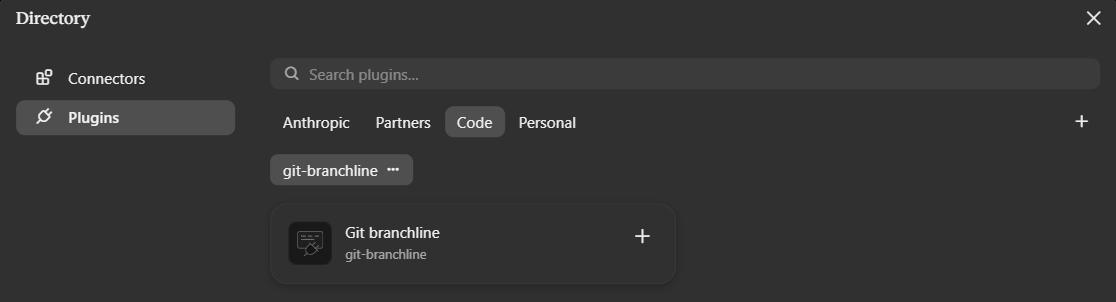
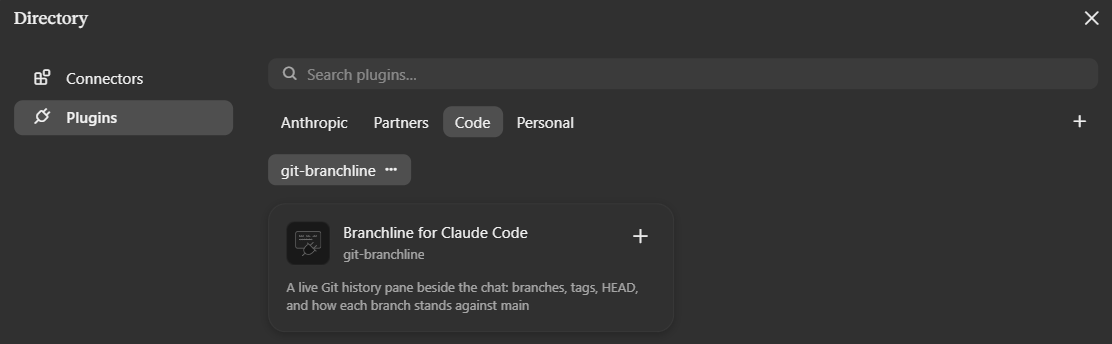
Show the plugin's new name in the install steps

diff --git a/docs/index.html b/docs/index.html
@@ -133,7 +133,7 @@ footer a{color:var(--dim)}
         <ol><li>Answer <code>y</code> to add the marketplace.</li><li>Pick user scope to load it in every session.</li></ol>
       </div>
       <div class="card" style="--c:var(--coral)"><h3>Claude desktop app</h3>
-        <ol><li><strong>Settings</strong> → <strong>Plugins</strong> → <strong>Add</strong> → <strong>Add marketplace</strong> → <strong>Add from a repository</strong>.</li><li>Enter <code>dvalfrid/git-branchline</code> and press <strong>Sync</strong>.</li><li>In the <strong>Directory</strong>, pick <strong>Git branchline</strong>, then <strong>Install</strong> → <strong>Install for me</strong>.</li></ol><p style="margin:10px 0 0;font-size:14px"><a href="https://github.com/dvalfrid/git-branchline#install">Step by step, with pictures</a></p>
+        <ol><li><strong>Settings</strong> → <strong>Plugins</strong> → <strong>Add</strong> → <strong>Add marketplace</strong> → <strong>Add from a repository</strong>.</li><li>Enter <code>dvalfrid/git-branchline</code> and press <strong>Sync</strong>.</li><li>In the <strong>Directory</strong>, pick <strong>Branchline for Claude Code</strong>, then <strong>Install</strong> → <strong>Install for me</strong>.</li></ol><p style="margin:10px 0 0;font-size:14px"><a href="https://github.com/dvalfrid/git-branchline#install">Step by step, with pictures</a></p>
       </div>
       <div class="card" style="--c:var(--purple)"><h3>From a shell</h3>
         <pre>claude plugin install git-branchline --marketplace dvalfrid/git-branchline</pre>

diff --git a/README.md b/README.md
@@ -62,16 +62,16 @@ In the Claude desktop app, where `/plugin` does not run:
 
    <img src="docs/install-2-repository.png" width="430" alt="The Add marketplace dialog with a URL field for a GitHub owner/repo or a Git URL">
 
-3. The **Directory** opens on the marketplace. Pick **Git branchline** (or
-   press its **+**).
+3. The **Directory** opens on the marketplace. Pick **Branchline for Claude
+   Code** (or press its **+**).
 
-   <img src="docs/install-3-directory.png" width="700" alt="The plugin Directory showing the git-branchline marketplace and its Git branchline plugin">
+   <img src="docs/install-3-directory.png" width="700" alt="The plugin Directory showing the git-branchline marketplace and its Branchline for Claude Code plugin">
 
 4. Choose **Install** → **Install for me** to have it in every project on
    this machine, or a project scope to share it through `.claude/` or keep
    it in `.claude.local/`.
 
-   <img src="docs/install-4-install.png" width="700" alt="Git branchline in the Directory with the Install menu open: Install for me, Install for project (shared), Install for project (personal)">
+   <img src="docs/install-4-install.png" width="700" alt="The plugin in the Directory with the Install menu open: Install for me, Install for project (shared), Install for project (personal)">
 
 A plugin installed from a terminal at the user scope also loads in the
 desktop app.
